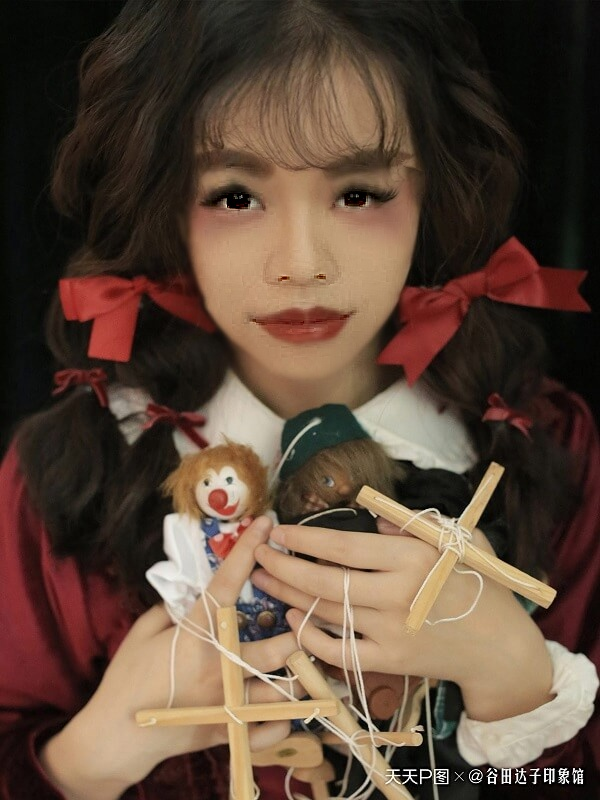
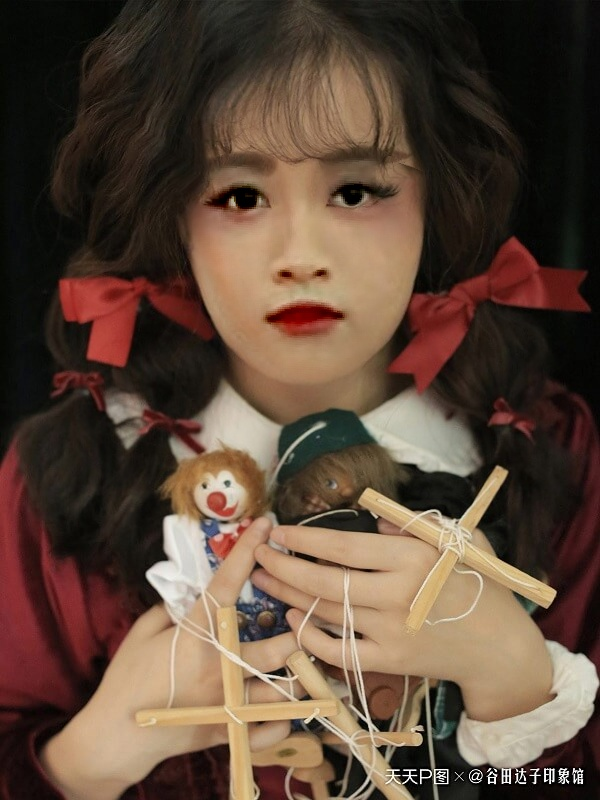
update params

diff --git a/core/recognizer.py b/core/recognizer.py
@@ -8,31 +8,27 @@ import json
 import os
 import requests
 import numpy as np
+
 # from core.youtuUtil import getFaceDataFromYoutu
-COLOUR_CORRECT_BLUR_FRAC =0.4
+COLOUR_CORRECT_BLUR_FRAC = 0.6
 PREDICTOR_PATH = "/home/hadoop/Desktop/dlib-19.17/shape_predictor_68_face_landmarks.dat"
 
-FACE_POINTS = list(range(17, 68))
+FACE_POINTS = list(range(0, 68))
 MOUTH_POINTS = list(range(48, 61))
-RIGHT_BROW_POINTS = list(range(17, 22))
-LEFT_BROW_POINTS = list(range(22, 27))
-RIGHT_EYE_POINTS = list(range(36, 42))
-LEFT_EYE_POINTS = list(range(42, 48))
+RIGHT_BROW_POINTS = list(range(17, 21))
+LEFT_BROW_POINTS = list(range(22, 26))
+RIGHT_EYE_POINTS = list(range(36, 41))
+LEFT_EYE_POINTS = list(range(42, 47))
 NOSE_POINTS = list(range(27, 35))
-JAW_POINTS = list(range(0, 17))
-
-
-LEFT_FACE = list(range(42, 48)) + list(range(22, 27))
-RIGHT_FACE = list(range(36, 42)) + list(range(17, 22))
+JAW_POINTS = list(range(0, 16))
 
 JAW_END = 17
 FACE_START = 0
-FACE_END = 68
+FACE_END = 67
 
 OVERLAY_POINTS = [
-    LEFT_BROW_POINTS+LEFT_EYE_POINTS,
-    RIGHT_BROW_POINTS+RIGHT_EYE_POINTS,
-    RIGHT_FACE,
+    LEFT_BROW_POINTS + LEFT_EYE_POINTS,
+    RIGHT_BROW_POINTS + RIGHT_EYE_POINTS,
     JAW_POINTS,
 ]
 
@@ -47,7 +43,7 @@ def get_landmarks(im):
         raise 'too many face detected in image {}'.format(im)
     if len(rects) == 0:
         raise 'No face detected in image {}'.format(im)
-    points =[]
+    points = []
     for p in predictor(im, rects[0]).parts():
         points.append([p.x, p.y])
 
@@ -79,5 +75,3 @@ def matrix_rectangle(left, top, width, height):
     ]
 
     return pointer
-
-

diff --git a/te_run.py b/te_run.py
@@ -16,13 +16,13 @@ def merge_one(src_img, dst_img, alpha):
                     out_img=out_img,
                     face_area=face_area,
                     alpha=alpha,
-                    k_size=(15, 10),
+                    k_size=(10, 5),
                     mat_multiple=0.95)
     return out_img
 
 
 # 要融合的图片下载一次就够了——用户上传的图片
-dst_img = "/home/hadoop/Desktop/face_merge_master/images/smallgirl.jpg"
+dst_img = "/home/hadoop/Desktop/face_merge_master/images/MSC.png"
 # 取得model的图片,下载一次就够了
 src_img = "/home/hadoop/Desktop/face_merge_master/images/model.jpg"
 output_image = merge_one(src_img,dst_img, 1)

diff --git a/core/morpher.py b/core/morpher.py
@@ -200,8 +200,8 @@ def face_merge(src_img, dst_img, out_img,
     cv2.imwrite("images/2.jpg", dst_img)
     dst_img = correct_color(src_img, dst_img, src_matrix[core.FACE_POINTS])
     # 删除掉临时生成的文件
-    # os.remove(trans_file)
-    # os.remove(morph_file)
+    os.remove(trans_file)
+    os.remove(morph_file)
 
     cv2.imwrite(out_img, dst_img)
 
